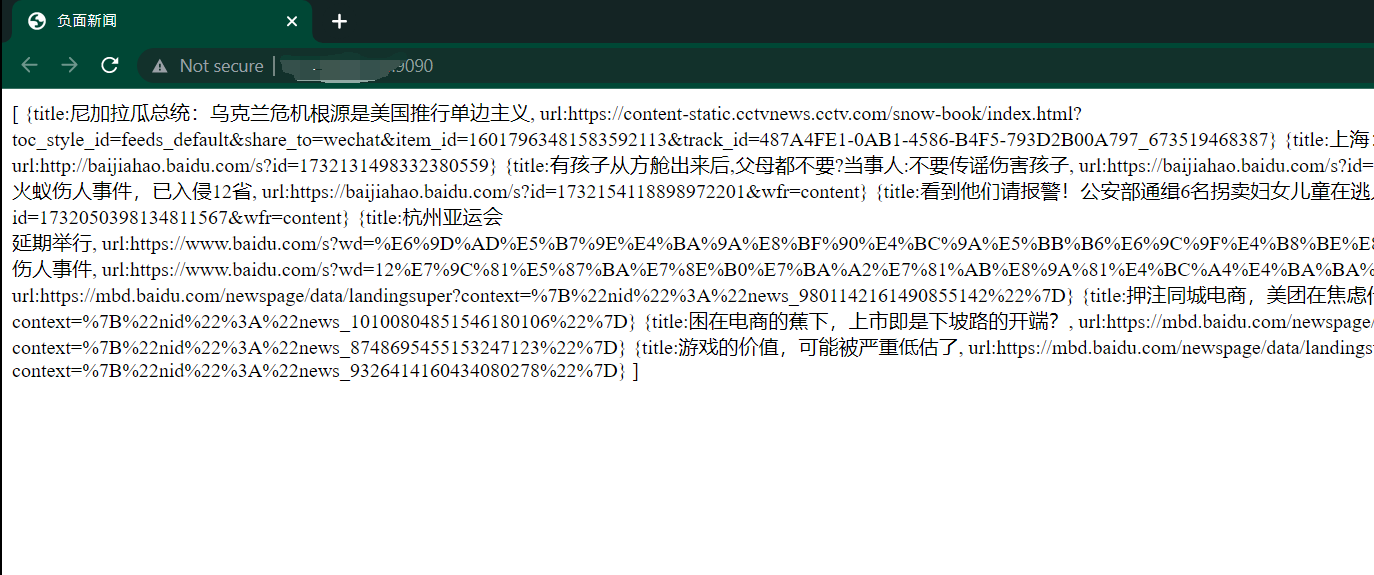
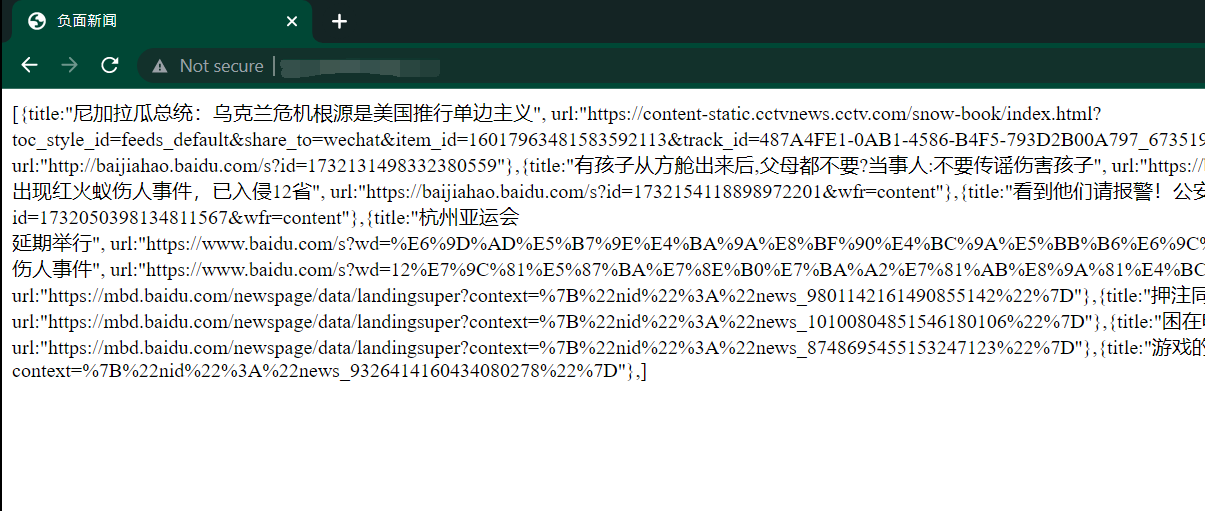
修正json格式

Changed region(s): [[0.0, 0.0, 1.0, 0.7632], [0.0, 0.0, 0.0921, 0.0587]]

diff --git a/myserver.cc b/myserver.cc
@@ -121,7 +121,7 @@ std::string genMessage() {
 			std::cout << "an error occurred when judgeEmo()" << std::endl;
 		}
 		else if (num < -0.5) {
-			ans += ("{title:\"" + news[1] + "\", url:\"" + news[0] + "\"}");
+			ans += ("{title:\"" + news[1] + "\", url:\"" + news[0] + "\"},");
 		}
 	}
 	ans += "]";
